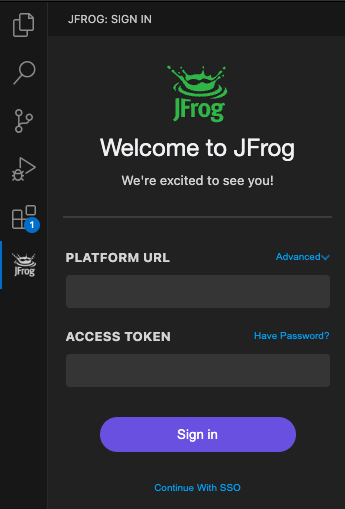
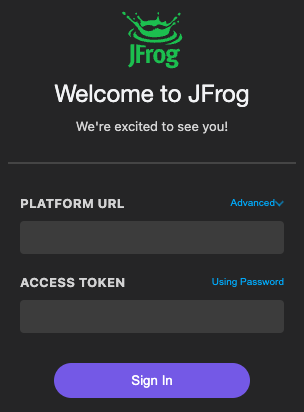
Update readme.md

diff --git a/README.md b/README.md
@@ -130,7 +130,7 @@ Once you installed, You can view the sigh in page by clicking on the Frog extens
 ![LoginPage](resources/readme/preview/sighInPage.png)
 
 
-Enter your JFrog platform connection details. Switching from Access token to Username and password can be done by clicking the 'Have Password?' button.
+Enter your JFrog platform connection details. Switching from Access token to Username and password can be done by clicking the `Using Password` button.
 
 **Note**: If you would like to use custom URLs for Artifactory or Xray, click on 'Advanced'
 
